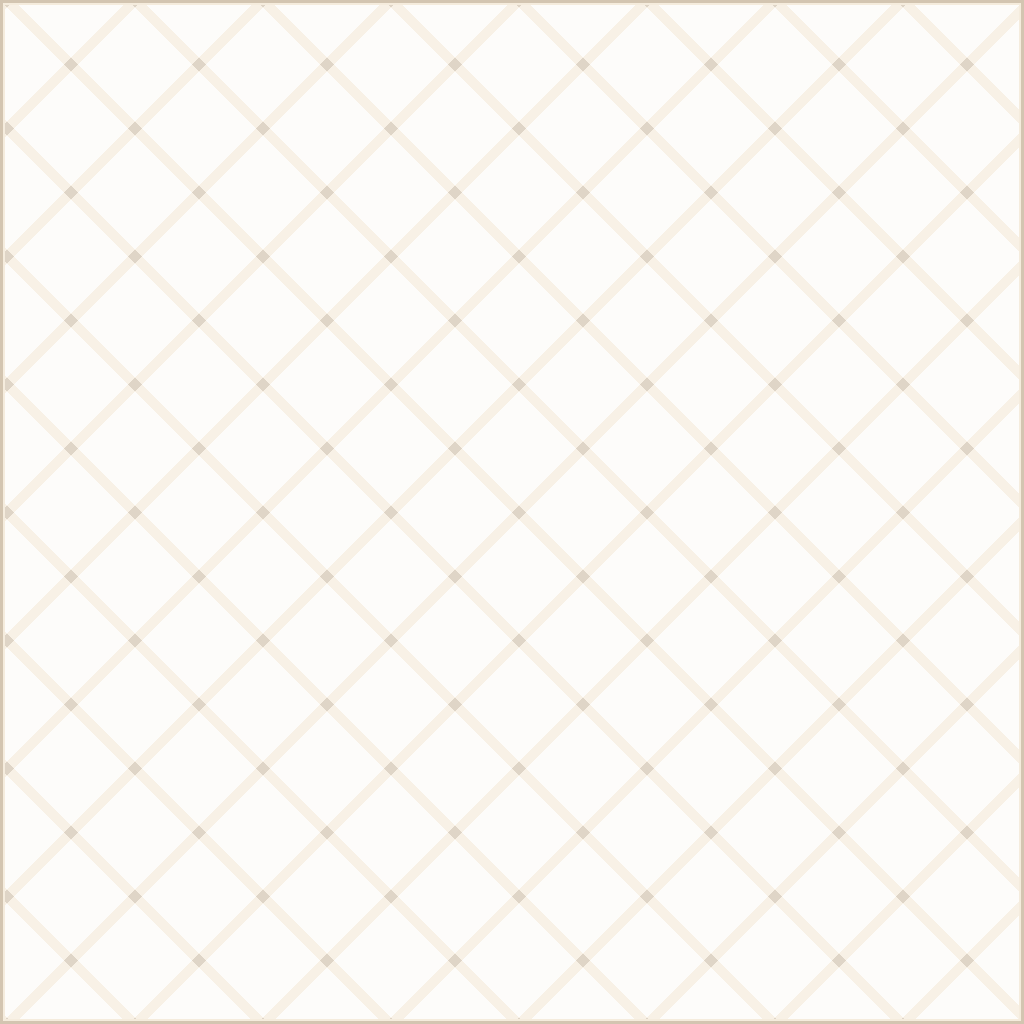
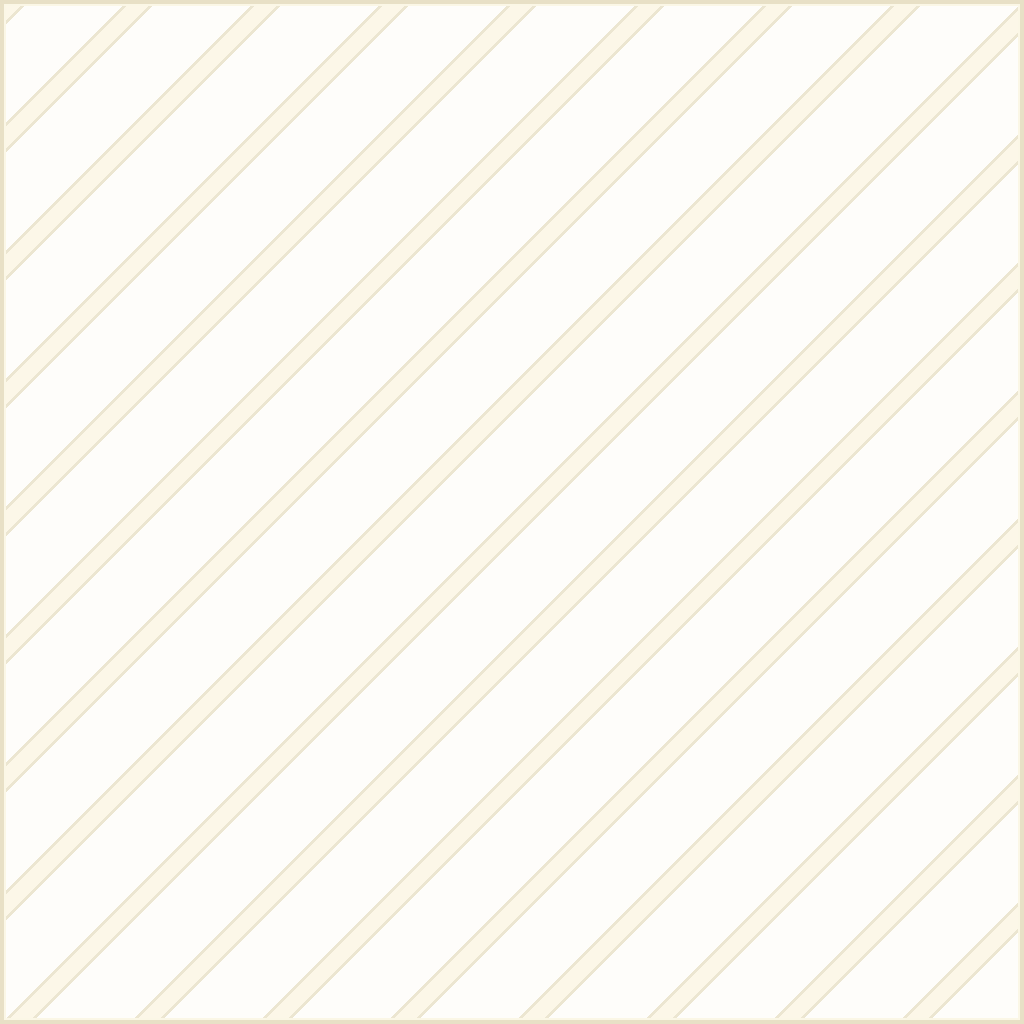
Playtest round: Deed starter (retrofit-safe), gradient overlays, inset borders
- Starter cell is now a free DEED (transparent, build-anything - the
  ladder's end state made visible), and the grant condition is "force
  owns nothing on this planet" instead of first-presence bookkeeping:
  saves that recorded presence before the grant existed get it on next
  join/surface-change/config-change (retrofit sweep over connected
  players), and the same rule doubles as downgraded-everything recovery.
- Overlays: one shared ribbon pattern, busy-to-calm gradient - wilderness
  red full strength, trail orange fainter, rampart yellow fainter still,
  deed clear - so raising one rung at a time visibly calms the ground.
- Borders inset 0.4 tiles into their own claimed side, each side drawing
  its own art: adjoining territories on the map read as separate outlines
  0.8 tiles apart instead of merging; outer frontiers stay single lines;
  stakes keep the true vertices. Isolated-island render counts unchanged,
  suite green.

diff --git a/tools/gen_overlays.py b/tools/gen_overlays.py
@@ -1,13 +1,18 @@
 #!/usr/bin/env python3
 """Generate the per-state cell overlays drawn by the blocker entities
-(ADR-0009): wilderness (red ribbons), trail (steel-blue lanes, opposite
-diagonal), rampart (amber crosshatch). Deed cells have no blocker and stay
-visually clear.
+(ADR-0009). One shared ribbon pattern; the states differ only in color and
+transparency, forming a busy-to-calm gradient that matches raising land one
+rung at a time:
+
+    wilderness  red     (full strength)
+    trail       orange  (more transparent)
+    rampart     yellow  (more transparent still)
+    deed        —       (no blocker, fully clear)
 
 Each sprite is 1024x1024 px; the data stage scales it to the configured cell
-size (fh-cell-size * 32 px per cell). Stripe periods divide 1024, so patterns
-continue seamlessly across adjacent same-state cells; the cell-edge border is
-what makes individual cells readable.
+size. The stripe period divides 1024, so patterns continue seamlessly across
+adjacent same-state cells; the cell-edge border keeps individual cells
+readable.
 
 Run from the repo root:  python3 tools/gen_overlays.py
 """
@@ -16,64 +21,58 @@ from PIL import Image
 
 SIZE = 1024
 PERIOD = 128
+RIBBON = 30
+EDGE = 4
+BORDER = 4
+INNER = 2
+
+# Base alphas at full strength (wilderness).
+A = {
+    "border": 120,
+    "inner": 60,
+    "ribbon_edge": 96,
+    "ribbon_core": 54,
+    "wash": 12,
+}
+
+STATES = {
+    # name: (main color, dark accent, alpha scale)
+    "wilderness": ((214, 48, 38), (150, 22, 18), 1.00),
+    "trail": ((222, 126, 38), (158, 84, 16), 0.72),
+    "rampart": ((224, 186, 48), (160, 128, 20), 0.52),
+}
 
 
-def clamp_border(x, y):
-    return min(x, y, SIZE - 1 - x, SIZE - 1 - y)
+def make(name, color, dark, alpha_scale):
+    def a(key):
+        return max(1, round(A[key] * alpha_scale))
 
-
-def make(name, pixel):
     img = Image.new("RGBA", (SIZE, SIZE))
     px = img.load()
     for y in range(SIZE):
         for x in range(SIZE):
-            px[x, y] = pixel(x, y)
-    out = __file__.rsplit("/", 2)[0] + f"/graphics/{name}.png"
+            b = min(x, y, SIZE - 1 - x, SIZE - 1 - y)
+            if b < BORDER:
+                px[x, y] = (*dark, a("border"))
+            elif b < BORDER + INNER:
+                px[x, y] = (*color, a("inner"))
+            else:
+                d = (x + y) % PERIOD
+                if d < RIBBON:
+                    if d < EDGE or d >= RIBBON - EDGE:
+                        px[x, y] = (*dark, a("ribbon_edge"))
+                    else:
+                        px[x, y] = (*color, a("ribbon_core"))
+                else:
+                    px[x, y] = (*color, a("wash"))
+    out = __file__.rsplit("/", 2)[0] + f"/graphics/{name}-overlay.png"
     img.save(out, optimize=True)
     print(f"wrote {out}")
 
 
-def wilderness(x, y):
-    RED, DARK = (214, 48, 38), (150, 22, 18)
-    b = clamp_border(x, y)
-    if b < 4: return (*DARK, 120)
-    if b < 6: return (*RED, 60)
-    d = (x + y) % PERIOD
-    if d < 30:
-        if d < 4 or d >= 26: return (*DARK, 96)
-        return (*RED, 54)
-    return (*RED, 12)
-
-
-def trail(x, y):
-    BLUE, DARK = (92, 132, 172), (52, 76, 104)
-    b = clamp_border(x, y)
-    if b < 3: return (*DARK, 80)
-    if b < 5: return (*BLUE, 40)
-    d = (x - y) % PERIOD  # opposite diagonal to wilderness
-    if d < 16:
-        if d < 3 or d >= 13: return (*DARK, 52)
-        return (*BLUE, 30)
-    return (*BLUE, 6)
-
-
-def rampart(x, y):
-    AMBER, DARK = (196, 144, 58), (128, 88, 30)
-    b = clamp_border(x, y)
-    if b < 3: return (*DARK, 88)
-    if b < 5: return (*AMBER, 44)
-    d1 = (x + y) % PERIOD
-    d2 = (x - y) % PERIOD
-    hit1, hit2 = d1 < 14, d2 < 14
-    if hit1 and hit2: return (*DARK, 64)
-    if hit1 or hit2: return (*AMBER, 32)
-    return (*AMBER, 7)
-
-
 def main():
-    make("wilderness-overlay", wilderness)
-    make("trail-overlay", trail)
-    make("rampart-overlay", rampart)
+    for name, (color, dark, scale) in STATES.items():
+        make(name, color, dark, scale)
 
 
 if __name__ == "__main__":

diff --git a/FREEHOLD_DESIGN.md b/FREEHOLD_DESIGN.md
@@ -521,6 +521,8 @@ A per-player points readout, built with the **mod-gui** library (`mod_gui.get_fr
 
 **Shipped early (M1.5): the wilderness overlay.** Wilderness cells draw a translucent red-ribbon pattern — diagonal ribbons, a faint wash, and a cell-edge border — implemented as the `fh-cell-wilderness` blocker's own `picture` on the `floor` render layer (ADR-0009). Zero render objects and zero rendering code: the blocker already lives on exactly the wilderness cells and the engine draws and culls it. Claimed states carry no picture, so the reading is wilderness-is-marked, claimed-is-clear; playtesting showed that with no visual cell boundaries at all, claiming is unusable (players cannot tell where cells end or which claims landed). The sprite is generated by `tools/gen_wilderness_overlay.py`.
 
+**Playtest refinements (post-M3).** Overlays form a busy-to-calm gradient in one shared ribbon pattern — wilderness red (full strength), Trail orange (fainter), Rampart yellow (fainter still), Deed clear — so raising land one rung at a time visibly calms the ground until it goes transparent. Border lines are **inset 0.4 tiles into their own claimed side**: where two claimed states abut, both sides draw their own line in their own art, 0.8 tiles apart, so adjoining territories read as separate outlines on the map instead of merging into one shape; outer frontiers against Wilderness stay single lines, and survey stakes keep marking the true shared vertices. The starter cell is a free **Deed** granted whenever a force owns nothing on a planet and a member stands there — retrofit-safe for saves whose presence predates the feature, and doubling as recovery.
+
 Cell borders are drawn **frontier-only**. Precisely: for every pair of orthogonally adjacent cells `a`, `b`, a border segment is drawn on their shared edge **iff** `state(a) ≠ state(b)`, where a cell absent from the registry counts as Wilderness. A solid block of Deeds therefore renders only its outline; a Trail corridor through Deed territory renders as an internal seam; the interior of any uniform region draws nothing. This cuts render-object counts drastically versus Gridlocked's roughly 10 objects per chunk (see *Architecture* for the performance rationale — MTS multiplies surfaces by team count).
 
 - **Eager creation at claim time (M3 implementation correction — supersedes the earlier lazy-on-chart design).** Render objects derive from the registry alone, created when a cell's state changes (via the `on_cell_claimed` / `on_cell_downgraded` events) and during rebuild reconciliation. The charted-status gate was removed: frontier-only rendering already bounds object count by claim perimeter, fog of war already hides in-world renders, the per-force `forces` filter already scopes visibility, and the adjacency rule keeps a force's claims inside its explored territory in practice — while gating on chartedness made derived state depend on a second input plus an event ordering, impurifying the registry-is-the-sole-source rule (ADR-0003). On a state change, only the changed cell's four render-owning neighbors are recomputed (each cell owns its west edge, north edge, and northwest stake — so exactly four cells' owned objects cover all affected geometry). Render bookkeeping lives per surface in `storage`; surfaces flagged in `storage.disabled_surfaces` get no grid at all.
